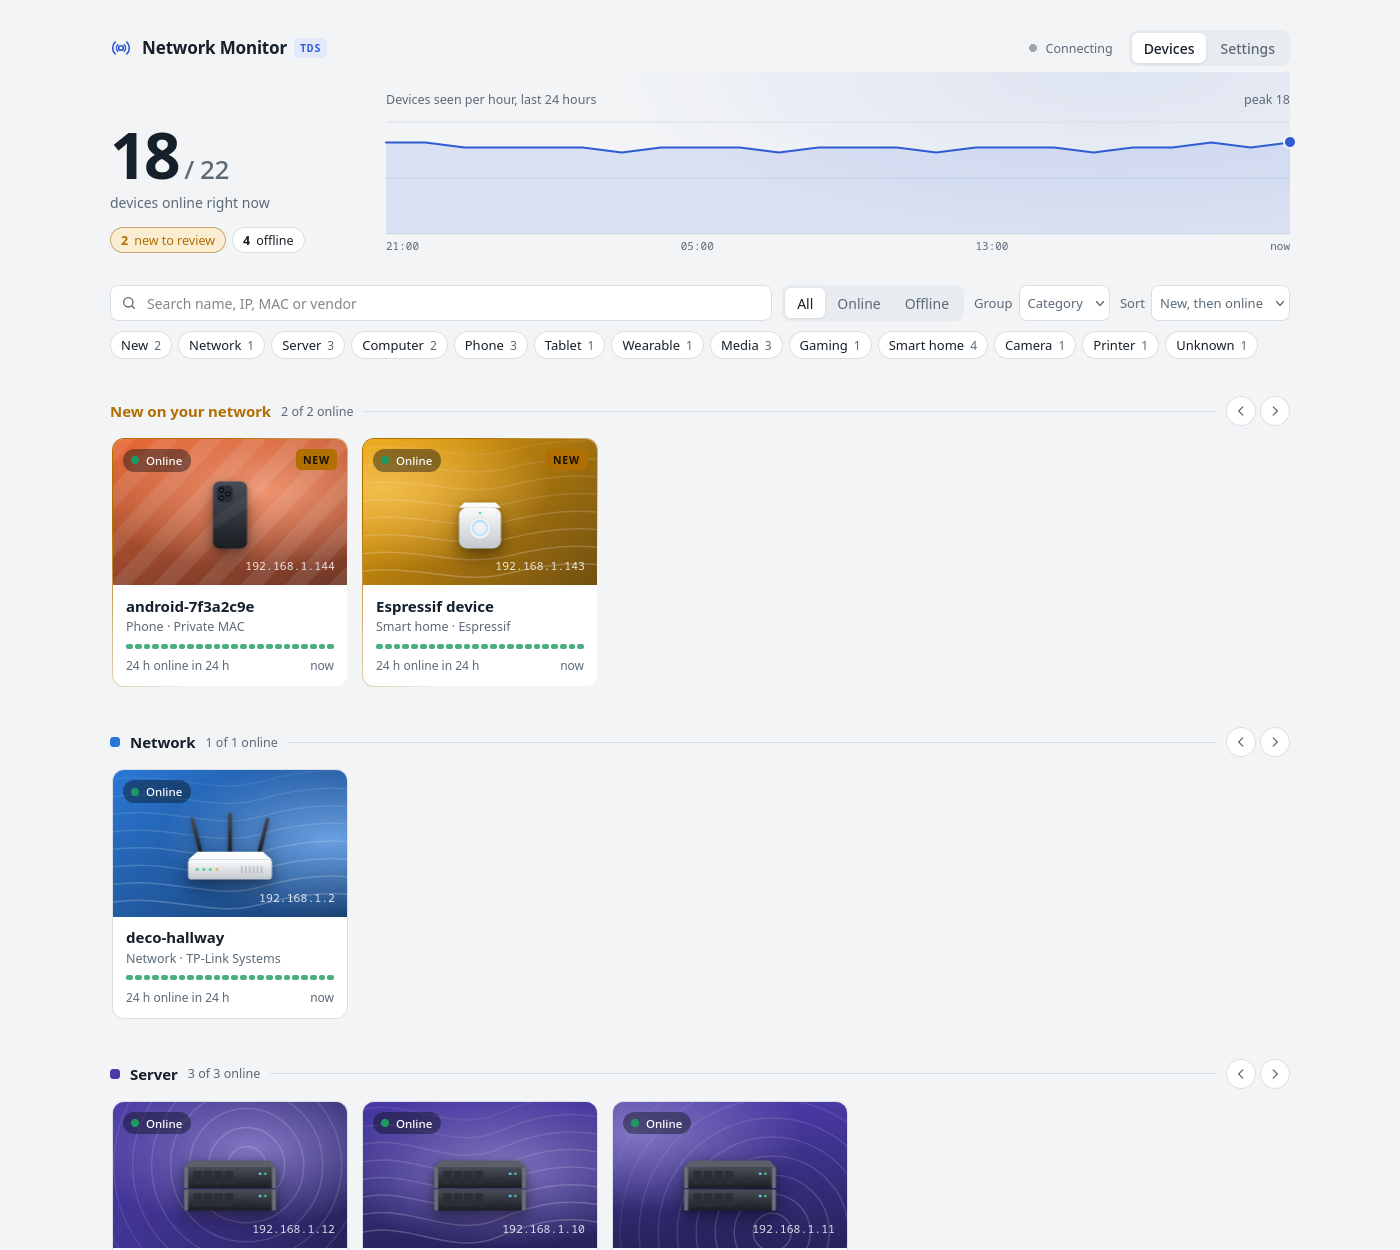
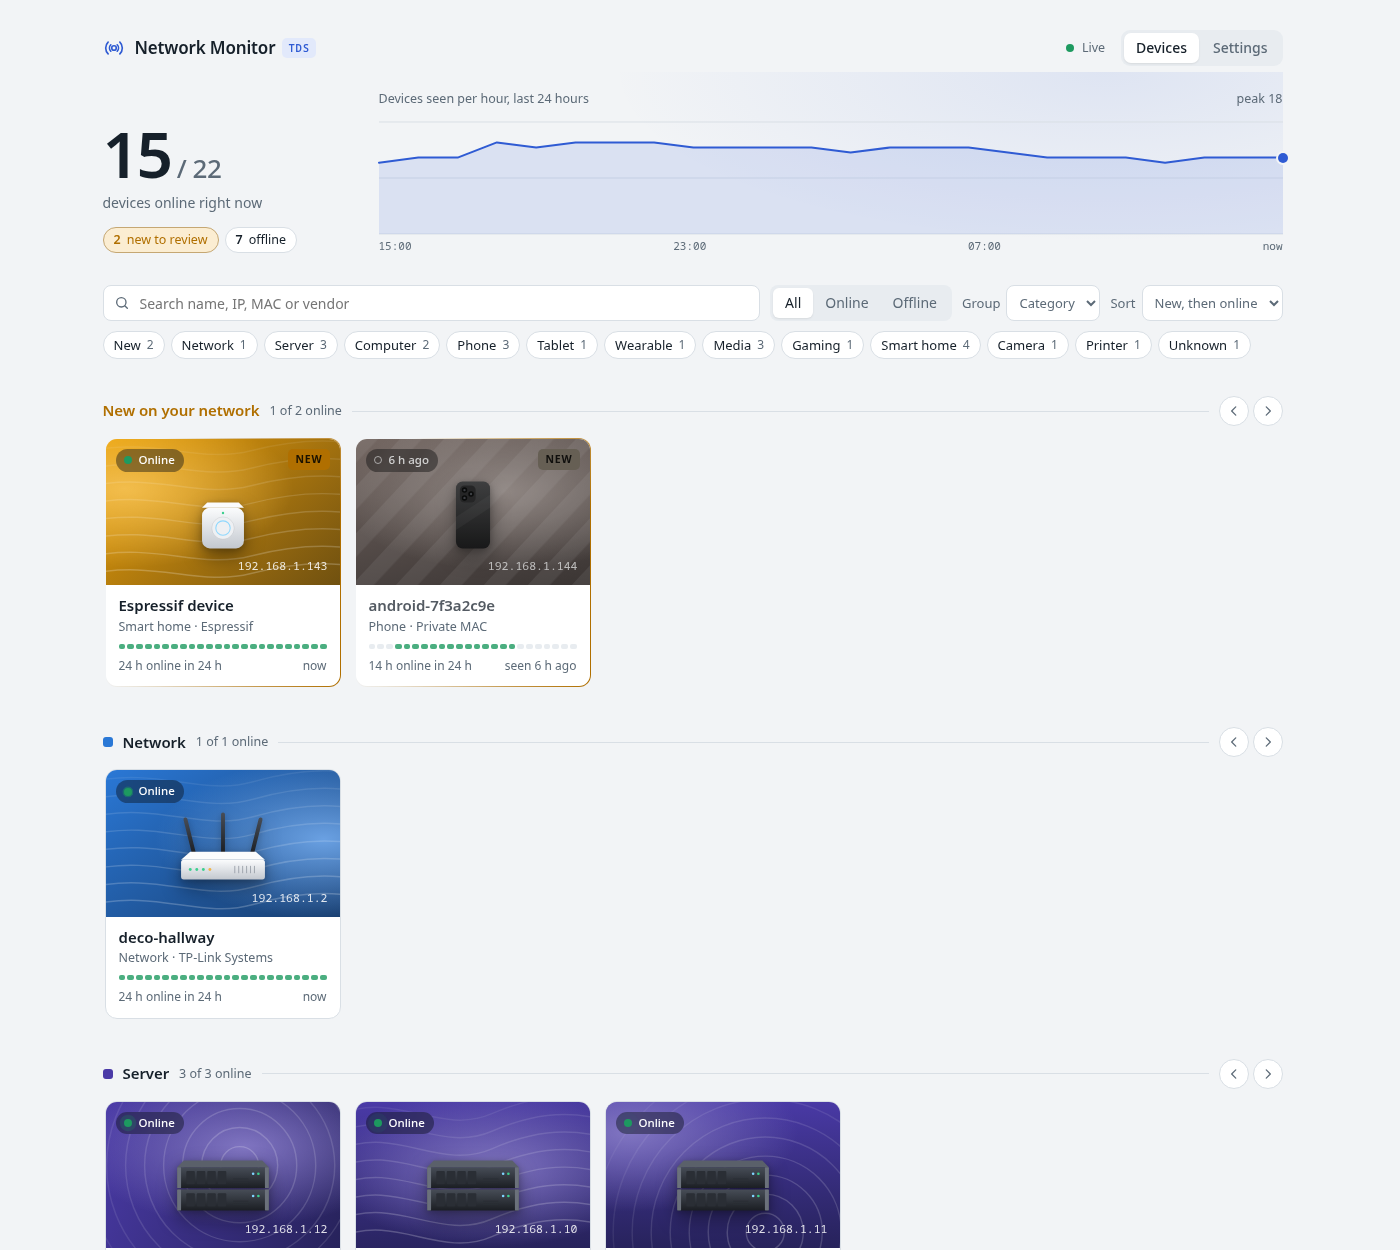
Update readme

diff --git a/README.md b/README.md
@@ -25,7 +25,7 @@
 
 See every device on your network, what it is, and when it comes and goes. Devices are found by listening to the network and by regular sweeps. Each one gets a name and a category automatically.
 
-![Devices page](docs/images/devices.png)
+![Opening a device, naming it, picking its drawing, then grouping and sorting the devices](docs/images/demo.gif)
 
 ## Features
 
@@ -33,12 +33,11 @@ See every device on your network, what it is, and when it comes and goes. Device
 - **Live.** Cards update by themselves when devices come online, go offline or appear for the first time.
 - **Twelve categories**, worked out from hostnames, mDNS services, DHCP vendor classes and the manufacturer: network, server, computer, phone, tablet, wearable, media, gaming, smart home, camera, printer and unknown.
 - **Device catalogue.** Status, IP, vendor and a 24-hour activity strip for every device. Search, filter by status, category or new devices, group into rows by category, status or vendor, and sort.
-- **Device panel.** A popup with an overview tab (a 14-day hourly presence heatmap, and which plugins found the device and what each learned) and a manage tab for your own name, category and drawing. Forget a device you no longer own.
+- **Device panel.** Click a card and it grows into a panel. *Overview* shows the device's details, which plugins found it and what each learned, and a 14-day hourly presence heatmap. *Manage* holds your own name and category, saved as you change them, and lets you forget a device you no longer own.
+- **Drawing picker.** The pencil on a device's drawing turns the panel over to show every drawing, with those of its category recommended first and a search to find any other.
 - **Plugins.** ARP sweep, ARP listener, DHCP sniffer, offline MAC vendor lookup, Technitium DHCP leases, and a demo network. Switch them on and off and edit their settings under **Settings → Sources**, without restarting. Third-party plugins install as ordinary Python packages.
 - **Simple to run.** One process, one SQLite file, automatic database upgrades with backups, and a JSON API.
 - **Drawings and card styles.** Every device gets a drawing of the kind of device it is. *Artwork* cards put it on a pattern in its category's colour, generated from the MAC address so no two devices look alike; *Studio* cards put it on a plain backdrop. Light and dark themes for both.
-
-![Device panel](docs/images/device-panel.png)
 
 ## Quick start
 
@@ -99,6 +98,7 @@ See [DEVELOPMENT.md](DEVELOPMENT.md) for the full workflow and [AGENTS.md](AGENT
 ## Credits
 
 - Built and mantained by [Gustavo Viera López](https://github.com/gvieralopez) 
+- With contributions from [Jorge Morgado Vega](https://github.com/jmorgadov).
 - Together with **[Claude](https://claude.com/claude-code)**, which did much of the heavy lifting.
 - Started from [Cookie Pyrate](https://github.com/gvieralopez/cookie-pyrate) project template.
 - Inspired by [NetAlertX](https://github.com/netalertx/NetAlertX).

diff --git a/docs/public/web-interface.md b/docs/public/web-interface.md
@@ -41,6 +41,8 @@ Press **Mark as known** to remove the NEW tag without changing anything else.
 
 **Manage** holds your own name and category for the device, and changes save as you make them. The category decides which group the card is shown in and its colour; changing it also switches the drawing to the first one recommended for that category. To pick another drawing, press the pencil next to the drawing on the banner: the panel turns over to show every drawing, with those of the chosen category recommended first. You can pick any drawing; search by name to find one, for example "console" for the several shapes and colours of consoles. The name is saved when you leave the field or close the panel; leave it empty to use the detected name. Press **Reset to detected** to go back to the detected name, category and drawing. Saving also marks the device as known.
 
+![Drawing picker](../images/device-drawings.png)
+
 Press **Forget device** at the bottom of the Manage tab to delete a device you no longer own, together with its labels, details and history. This cannot be undone. If the device is still on the network, it shows up again as a new device the next time it is seen.
 
 Press Escape, the close button or anywhere outside the panel to close it.
